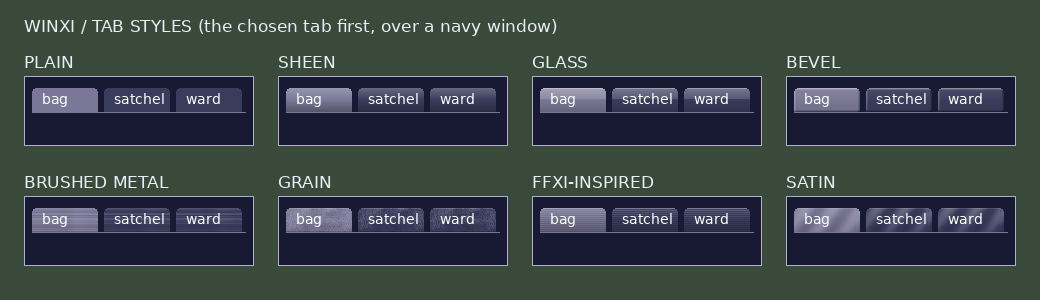
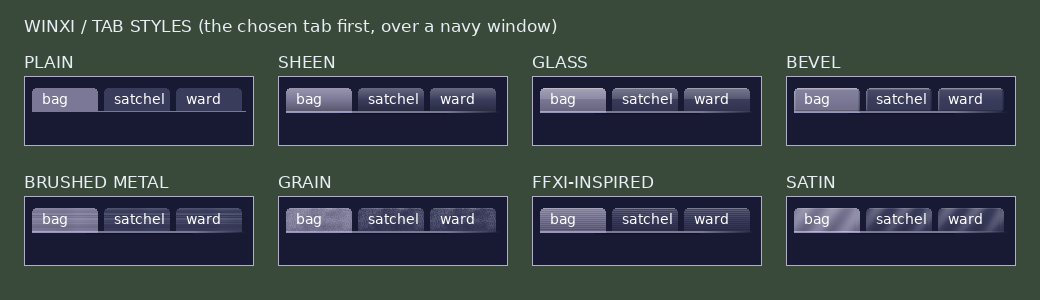
winxi: with a Tab Style other than Plain, tabs.BeginBar draws the line under a bar's tabs in its place: the Highlight Color, solid under the middle and fading out toward both ends, brighter under the chosen tab with a fine light edge, and a soft shade below. inventory and mark begin their tab bars w

diff --git a/tools/generate_winxi_tabs.py b/tools/generate_winxi_tabs.py
@@ -145,6 +145,28 @@ def tab(texture, w, h, color):
     return out
 
 
+def bar_line(out, left, right, y, chosen_left, chosen_right, styled, color):
+    """the line under the tabs as tabs.lua draws it, or imgui's own for Plain"""
+    d = ImageDraw.Draw(out)
+    if not styled:
+        d.line((left, y - 1, right - 1, y - 1), fill=color)
+        return
+    over = Image.new('RGBA', out.size)
+    od = ImageDraw.Draw(over)
+    width, fade = right - left, (right - left) * 0.25
+    rgb = color[:3]
+    for x in range(left, right):
+        at = x - left
+        amount = min(1, at / fade, (width - at) / fade)
+        od.line((x, y - 1, x, y), fill=rgb + (round(255 * amount),))
+        if fade <= at <= width - fade:
+            od.point((x, y + 1), fill=(0, 0, 0, 76))
+            od.point((x, y + 2), fill=(0, 0, 0, 38))
+    od.rectangle((chosen_left, y - 1, chosen_right - 1, y), fill=tuple(min(255, round(c * 1.25)) for c in rgb) + (255,))
+    od.line((chosen_left, y - 1, chosen_right - 1, y - 1), fill=(255, 255, 255, 110))
+    out.alpha_composite(Image.alpha_composite(Image.new('RGBA', out.size), over))
+
+
 def preview(textures):
     names = ['plain', 'sheen', *TEXTURES]
     columns, w, h = 4, 230, 70
@@ -164,7 +186,7 @@ def preview(textures):
             left, tw = x + 8 + t * 72, 66
             out.alpha_composite(tab(texture, tw, 24, color), (left, y + 12))
             d.text((left + 10, y + 15), label, font=small, fill='#ffffff')
-        d.line((x + 8, y + 36, x + w - 9, y + 36), fill=chosen)
+        bar_line(out, x + 8, x + w - 8, y + 36, x + 8, x + 74, name != 'plain', chosen)
     out.convert('RGB').save(ROOT / 'preview.png')
 
 

diff --git a/addons/libs/winxi/README.md b/addons/libs/winxi/README.md
@@ -25,7 +25,7 @@ Lives in `addons/libs/winxi/`, so any addon can `require('winxi.<module>')`.
 | `winxi.borders` | The theme's window border art, from `assets\borders`: nine-slice images drawn in place of a window's own border, on windows of the game kind. `winxi.window` draws it on its own; an addon drawing its own windows asks `Texture(style)` before `Begin`, `Push` around `Begin`, and `Draw` after its content |
 | `winxi.titles` | A window's title across its top edge, at the right, as the theme has it: Frame Titles, Title Style (Outlined Text, Break In Border, Break With Shadow, Plate), Title Color, Title Font, Title Size, Title Position X and Y, Title Shadow, Title All Caps. `winxi.window` draws it for a game window given `options.title`; an addon drawing its own windows passes `titles.Breaks(words)` to `borders.Push`, `titles.Gap(words)` to `borders.Draw`, then calls `titles.Draw(words)` |
 | `winxi.backgrounds` | The theme's window background style, on windows of the game kind: a gradient, the FFXI-inspired gradient with a fine line every other row, or a greyscale tile of `assets\backgrounds` drawn side by side at its own size, all in the background colour. `winxi.window` (through `winxi.style`, which leaves the window's own background clear under it) draws it on its own; an addon drawing its own windows asks `For(nil)` before `Begin`, pushes a clear `WindowBg` where that is not nil, and calls `Draw(chosen, color)` before its content. Tiles are made by `tools/generate_winxi_backgrounds.py` |
-| `winxi.tabs` | The theme's tab style, over the tabs of a window of the game kind: Sheen (light at the top, shade at the foot, drawn), or an image of `assets\tabs` (Glass, Bevel, Brushed Metal, Grain, FFXI-inspired, Satin), faint white and black over the tab imgui draws so it keeps its colours, its edges kept and its middle repeated across the tab, inside its rounded top. Plain is imgui's own tab. `Begin(label, flags)` in place of `imgui.BeginTabItem`, or `Draw()` straight after one; `inventory` and `mark` use it. Images are made by `tools/generate_winxi_tabs.py` |
+| `winxi.tabs` | The theme's tab style, over the tabs of a window of the game kind: Sheen (light at the top, shade at the foot, drawn), or an image of `assets\tabs` (Glass, Bevel, Brushed Metal, Grain, FFXI-inspired, Satin), faint white and black over the tab imgui draws so it keeps its colours, its edges kept and its middle repeated across the tab, inside its rounded top. With any style but Plain the line under the tabs is drawn too, in the Highlight Color: fading out toward both ends, brighter under the chosen tab, with a soft shade below. Plain is imgui's own tabs and line. `BeginBar(id, flags)` in place of `imgui.BeginTabBar`, and `Begin(label, flags)` in place of `imgui.BeginTabItem` (or `Draw(chosen)` straight after one); `inventory` and `mark` use them. Images are made by `tools/generate_winxi_tabs.py` |
 | `winxi.statusicons` | A status's icon to draw: the chosen set of custom icons' (a folder of `statusicons`; `ffxiv`, made by `tools/build_status_icons.py`, to start), or the game's own where the set has none. `Sets()` lists the folders. A set is in one picture as well, for what draws from few pictures: `Sheet()` and `SheetPlace(id)`, ffxiv's `sheet.png` or, for any other set, made at run time a few a frame; and the game's own, made into one at run time a few a frame: `GameSheet()` and `GameSheetPlace(id)`; and the two together as party and buff draw them, the set's icon where it has one and the game's where not, in one picture made at run time a few a frame: `MixedSheet()` and `MixedPlace(id)`, which says too whether the icon is the set's |
 | `winxi.cursor` | The game's animated cursors, loaded from the client's menu DAT through the pivot-aware map reader. `Get(forceRetry, group, neutral)` returns a texture handle and the current frame (or nil and why): its UVs, its pixel rect in the atlas, and the corners it is drawn to around its pivot. `group` is `anc_s` (the right-pointing party cursor, the default) or `anc_l` (the downward target cursor); `neutral` gives a grey copy to tint. `Parse(buffer, length, group)` validates the `anc` DXT3 atlas and the group. Used by Party instead of text arrows, with text fallback if unavailable, and by hideparty for the target cursor it hides |
 | `winxi.mapdat` | The game's own map pictures as a texture to draw: `Load(dat)` with a map's file by its place under the game's folder (`'ROM/283/75.DAT'`), read the way pivot turns towards its overlays, so with XICombinedMaps installed it is the pack's 2048-pixel picture and without it the game's own. DXT and 8-bit bitmaps |
